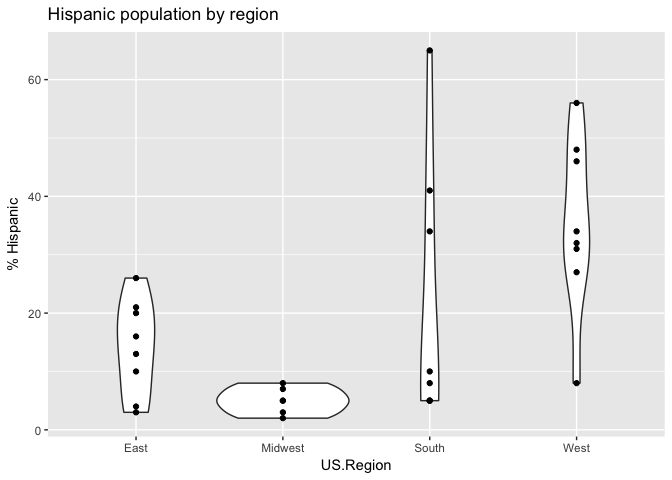
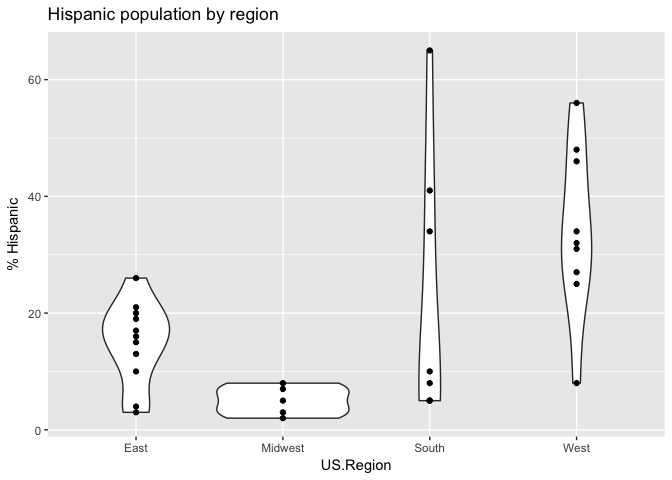
Update demographics w/ new county info

diff --git a/planned-enrollment.nb.html b/planned-enrollment.nb.html
@@ -169,7 +169,7 @@ $(document).ready(function () {
 
 <h1 class="title toc-ignore">PLAY Planned Enrollment</h1>
 <h4 class="author"><em>Rick O. Gilmore</em></h4>
-<h4 class="date"><em>2017-05-04 10:58:10</em></h4>
+<h4 class="date"><em>2017-05-09 09:32:57</em></h4>
 
 </div>
 

diff --git a/data-collection-site-demographics.md b/data-collection-site-demographics.md
@@ -1,7 +1,7 @@
 Data collection site demographics
 ================
 Rick O. Gilmore
-2017-05-04 10:56:12
+2017-05-09 09:30:27
 
 Background
 ----------
@@ -56,13 +56,15 @@ county.demo %>%
 |:----------|:----------------|:------|:---------------------|------------------:|---------------:|---------------:|---------------:|------------------:|
 | East      | Washington      | DC    | District Of columbia |             619371|              35|              49|               3|                 10|
 | East      | Boston          | MA    | Suffolk              |             735701|              48|              20|               8|                 20|
+| East      | Bethesda        | MD    | Montgomery           |             989474|              48|              17|              14|                 17|
 | East      | Newark          | NJ    | Essex                |             785853|              33|              39|               5|                 21|
 | East      | Princeton       | NJ    | Mercer               |             368094|              54|              19|               9|                 16|
 | East      | Ithaca          | NY    | Tompkins             |             102270|              79|               4|              10|                  4|
 | East      | New York        | NY    | New York             |            1605272|              48|              13|              11|                 26|
 | East      | Philadelphia    | PA    | Philadelphia         |            1536704|              37|              42|               6|                 13|
 | East      | University Park | PA    | Centre               |             154460|              88|               3|               5|                  3|
-| Midwest   | Champaign       | IL    | Champaign            |             202428|              70|              12|               9|                  5|
+| East      | Providence      | RI    | Providence           |             627469|              65|               8|               4|                 19|
+| East      | Arlington       | VA    | Arlington            |             214861|              64|               8|               9|                 15|
 | Midwest   | Bloomington     | IN    | Monroe               |             139634|              86|               3|               6|                  3|
 | Midwest   | W. Lafayette    | IN    | Tippecanoe           |             175628|              80|               4|               7|                  8|
 | Midwest   | East Lansing    | MI    | Ingham               |             281531|              72|              11|               5|                  7|
@@ -80,6 +82,7 @@ county.demo %>%
 | West      | Fullerton       | CA    | Orange               |            3051771|              43|               2|              18|                 34|
 | West      | Long Beach      | CA    | Los Angeles          |            9893481|              28|               8|              14|                 48|
 | West      | Merced          | CA    | Merced               |             258707|              31|               3|               8|                 56|
+| West      | Palo Alto       | CA    | San Mateo            |             729543|              42|               3|              25|                 25|
 | West      | Palo Alto       | CA    | Santa Clara          |            1812208|              35|               2|              32|                 27|
 | West      | Riverside       | CA    | Riverside            |            2228528|              39|               6|               6|                 46|
 | West      | Santa Cruz      | CA    | Santa Cruz           |             264808|              59|               1|               4|                 32|
@@ -207,13 +210,15 @@ county.demo %>%
 |:----------|:----------------|:------|:---------------------|------------------:|--------------------:|-------------:|
 | East      | Washington      | DC    | District Of columbia |             619371|                45290|          1154|
 | East      | Boston          | MA    | Suffolk              |             735701|                32835|          1135|
+| East      | Bethesda        | MD    | Montgomery           |             989474|                49038|          1423|
 | East      | Newark          | NJ    | Essex                |             785853|                32181|           917|
 | East      | Princeton       | NJ    | Mercer               |             368094|                37465|           959|
 | East      | Ithaca          | NY    | Tompkins             |             102270|                27418|           857|
 | East      | New York        | NY    | New York             |            1605272|                62498|          1342|
 | East      | Philadelphia    | PA    | Philadelphia         |            1536704|                22279|           721|
 | East      | University Park | PA    | Centre               |             154460|                25545|           795|
-| Midwest   | Champaign       | IL    | Champaign            |             202428|                25713|           658|
+| East      | Providence      | RI    | Providence           |             627469|                26308|           740|
+| East      | Arlington       | VA    | Arlington            |             214861|                62018|          1659|
 | Midwest   | Bloomington     | IN    | Monroe               |             139634|                23032|           679|
 | Midwest   | W. Lafayette    | IN    | Tippecanoe           |             175628|                23691|           650|
 | Midwest   | East Lansing    | MI    | Ingham               |             281531|                24754|           664|
@@ -231,6 +236,7 @@ county.demo %>%
 | West      | Fullerton       | CA    | Orange               |            3051771|                34057|          1413|
 | West      | Long Beach      | CA    | Los Angeles          |            9893481|                27749|          1110|
 | West      | Merced          | CA    | Merced               |             258707|                18177|           725|
+| West      | Palo Alto       | CA    | San Mateo            |             729543|                45732|          1509|
 | West      | Palo Alto       | CA    | Santa Clara          |            1812208|                41513|          1473|
 | West      | Riverside       | CA    | Riverside            |            2228528|                23591|          1015|
 | West      | Santa Cruz      | CA    | Santa Cruz           |             264808|                32295|          1282|

diff --git a/planned-enrollment.md b/planned-enrollment.md
@@ -1,7 +1,7 @@
 PLAY Planned Enrollment
 ================
 Rick O. Gilmore
-2017-05-04 10:58:10
+2017-05-09 09:32:59
 
 Background/Rationale
 --------------------
@@ -60,13 +60,15 @@ county.demo %>%
 |:----------|:----------------|:------|:---------------------|------------------:|---------------:|---------------:|---------------:|------------------:|
 | East      | Washington      | DC    | District Of columbia |             619371|              35|              49|               3|                 10|
 | East      | Boston          | MA    | Suffolk              |             735701|              48|              20|               8|                 20|
+| East      | Bethesda        | MD    | Montgomery           |             989474|              48|              17|              14|                 17|
 | East      | Newark          | NJ    | Essex                |             785853|              33|              39|               5|                 21|
 | East      | Princeton       | NJ    | Mercer               |             368094|              54|              19|               9|                 16|
 | East      | Ithaca          | NY    | Tompkins             |             102270|              79|               4|              10|                  4|
 | East      | New York        | NY    | New York             |            1605272|              48|              13|              11|                 26|
 | East      | Philadelphia    | PA    | Philadelphia         |            1536704|              37|              42|               6|                 13|
 | East      | University Park | PA    | Centre               |             154460|              88|               3|               5|                  3|
-| Midwest   | Champaign       | IL    | Champaign            |             202428|              70|              12|               9|                  5|
+| East      | Providence      | RI    | Providence           |             627469|              65|               8|               4|                 19|
+| East      | Arlington       | VA    | Arlington            |             214861|              64|               8|               9|                 15|
 | Midwest   | Bloomington     | IN    | Monroe               |             139634|              86|               3|               6|                  3|
 | Midwest   | W. Lafayette    | IN    | Tippecanoe           |             175628|              80|               4|               7|                  8|
 | Midwest   | East Lansing    | MI    | Ingham               |             281531|              72|              11|               5|                  7|
@@ -84,6 +86,7 @@ county.demo %>%
 | West      | Fullerton       | CA    | Orange               |            3051771|              43|               2|              18|                 34|
 | West      | Long Beach      | CA    | Los Angeles          |            9893481|              28|               8|              14|                 48|
 | West      | Merced          | CA    | Merced               |             258707|              31|               3|               8|                 56|
+| West      | Palo Alto       | CA    | San Mateo            |             729543|              42|               3|              25|                 25|
 | West      | Palo Alto       | CA    | Santa Clara          |            1812208|              35|               2|              32|                 27|
 | West      | Riverside       | CA    | Riverside            |            2228528|              39|               6|               6|                 46|
 | West      | Santa Cruz      | CA    | Santa Cruz           |             264808|              59|               1|               4|                 32|
@@ -119,13 +122,15 @@ county.planned.enrollment %>%
 |:---------------------|:------|---------:|---------:|---------:|------------:|--------:|
 | District Of columbia | DC    |        10|        15|         1|            3|       29|
 | Suffolk              | MA    |        14|         6|         3|            6|       29|
+| Montgomery           | MD    |        14|         6|         5|            6|       31|
 | Essex                | NJ    |         9|        12|         2|            7|       30|
 | Mercer               | NJ    |        16|         6|         3|            5|       30|
 | Tompkins             | NY    |        23|         2|         3|            2|       30|
 | New York             | NY    |        14|         4|         4|            8|       30|
 | Philadelphia         | PA    |        11|        13|         2|            4|       30|
 | Centre               | PA    |        26|         1|         2|            1|       30|
-| Champaign            | IL    |        21|         4|         3|            2|       30|
+| Providence           | RI    |        19|         3|         2|            6|       30|
+| Arlington            | VA    |        19|         3|         3|            5|       30|
 | Monroe               | IN    |        25|         1|         2|            1|       29|
 | Tippecanoe           | IN    |        24|         2|         3|            3|       32|
 | Ingham               | MI    |        21|         4|         2|            3|       30|
@@ -143,6 +148,7 @@ county.planned.enrollment %>%
 | Orange               | CA    |        12|         1|         6|           11|       30|
 | Los Angeles          | CA    |         8|         3|         5|           15|       31|
 | Merced               | CA    |         9|         1|         3|           17|       30|
+| San Mateo            | CA    |        12|         1|         8|            8|       29|
 | Santa Clara          | CA    |        10|         1|        10|            9|       30|
 | Riverside            | CA    |        11|         2|         2|           14|       29|
 | Santa Cruz           | CA    |        17|         1|         2|           10|       30|
@@ -160,7 +166,7 @@ county.planned.enrollment %>%
 
 |  Tot\_white|  Tot\_black|  Tot\_asian|  Tot\_hispanic|  Tot\_sample|
 |-----------:|-----------:|-----------:|--------------:|------------:|
-|         469|         161|          79|            193|          902|
+|         512|         170|          94|            216|          992|
 
 This is close to the projected total *n*=900. We will need to do some hand-tweaking, of course.
 
